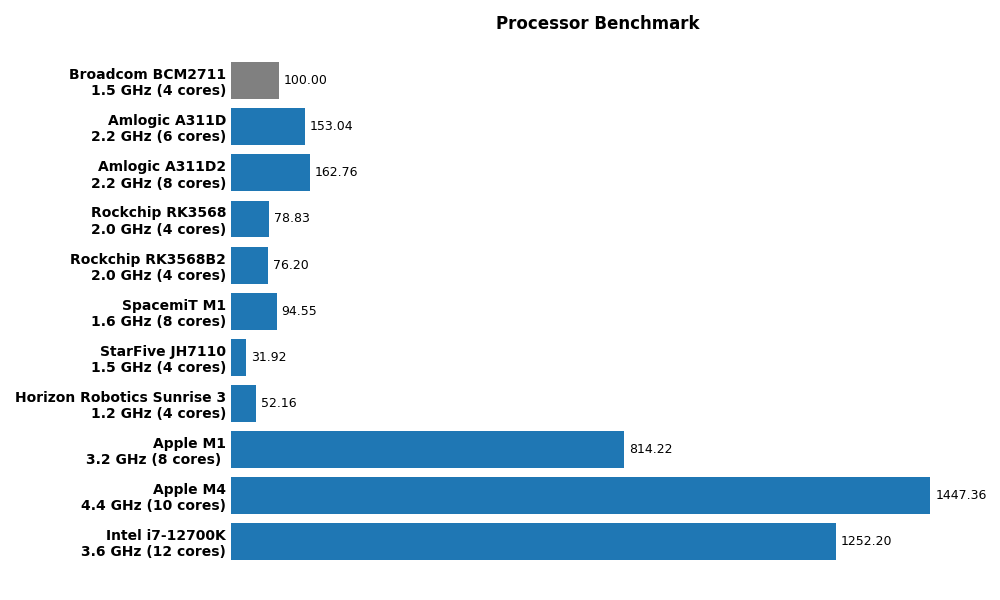
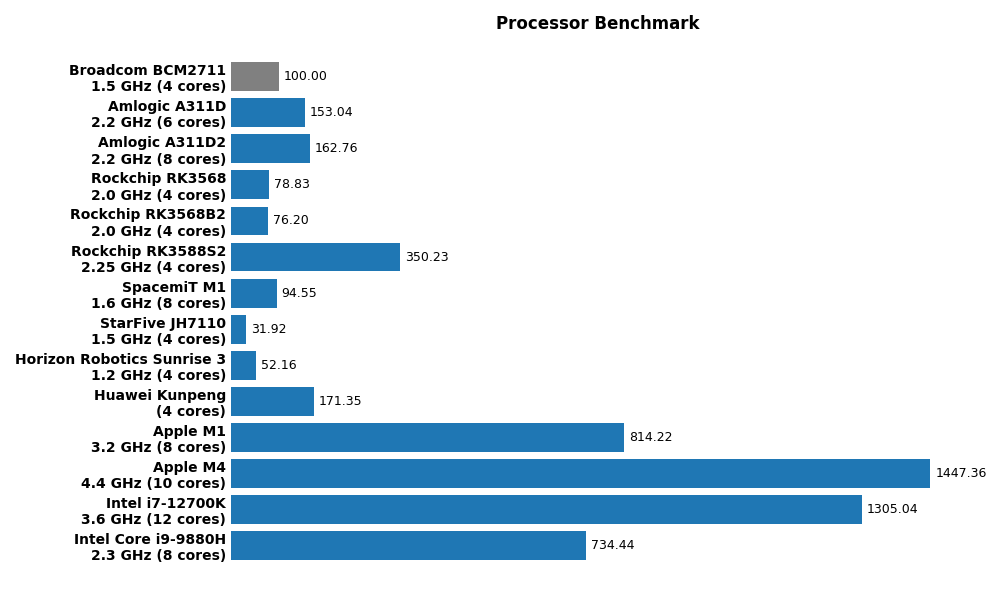
Add i9 results

Changed region(s): [[0.0, 0.09, 0.992, 0.96]]

diff --git a/README.md b/README.md
@@ -19,14 +19,15 @@ The geometric mean of all test case scores within a test suite represents the sc
 
 After the benchmark completes, detailed scores are reported as:
 
-| module     |   Amlogic A311D |   Amlogic A311D2 |   Apple M1 |   Apple M4 |   Huawei Kunpeng |   Intel Core i7-12700K |   Rockchip RK3568 |   Rockchip RK3568B2 |   Rockchip RK3588S2 |   SpacemiT M1 |   StarFive JH7110 |   Horizon Robotics Sunrise 3 |
-|:-----------|----------------:|-----------------:|-----------:|-----------:|-----------------:|-----------------------:|------------------:|--------------------:|--------------------:|--------------:|------------------:|-----------------------------:|
-| calib3d    |          168.5  |           167.83 |     805.11 |    1276.45 |           180.74 |                1047.36 |             92.17 |               89.21 |              379.78 |         86.56 |             35.38 |                        57.12 |
-| core       |          157.2  |           157.9  |     964.48 |    1573.05 |           178.97 |                1129.9  |             81.14 |               77.41 |              368.45 |        107.72 |             26.96 |                        57.54 |
-| features2d |          148.54 |           187.02 |     823.6  |    1753.81 |           141.08 |                1659.51 |             72.93 |               71.62 |              328.12 |        103.65 |             30.52 |                        49.69 |
-| imgproc    |          151.89 |           160.65 |     865.98 |    1514.13 |           178.01 |                1318.76 |             82.88 |               79.7  |              337.92 |        119.81 |             33.73 |                        52.4  |
-| objdetect  |          140.49 |           143.46 |     646.15 |    1191.21 |           181.85 |                1188.76 |             67.34 |               65.16 |              339.64 |         65.25 |             33.72 |                        45.13 |
-| **Score**  |      **153.04** |       **162.76** | **814.22** |**1447.36** |       **171.35** |             **1252.2** |         **78.83** |            **76.2** |          **350.23** |     **94.55** |         **31.92** |                    **52.16** |
+
+| module     |   Amlogic A311D |   Amlogic A311D2 |   Apple M1 |   Apple M4 |   Horizon Robotics Sunrise 3 |   Huawei Kunpeng |   Intel Core i7-12700K |   Intel Core i9-9880H |   Rockchip RK3568 |   Rockchip RK3568B2 |   Rockchip RK3588S2 |   SpacemiT M1 |   StarFive JH7110 |
+|:-----------|----------------:|-----------------:|-----------:|-----------:|-----------------------------:|-----------------:|-----------------------:|----------------------:|------------------:|--------------------:|--------------------:|--------------:|------------------:|
+| calib3d    |          168.5  |           167.83 |     805.11 |    1276.45 |                        57.12 |           180.74 |                1060.27 |                670.97 |             92.17 |               89.21 |              379.78 |         86.56 |             35.38 |
+| core       |          157.2  |           157.9  |     964.48 |    1573.05 |                        57.54 |           178.97 |                1227.25 |                709.42 |             81.14 |               77.41 |              368.45 |        107.72 |             26.96 |
+| features2d |          148.54 |           187.02 |     823.6  |    1753.81 |                        49.69 |           141.08 |                1686.13 |                852.97 |             72.93 |               71.62 |              328.12 |        103.65 |             30.52 |
+| imgproc    |          151.89 |           160.65 |     865.98 |    1514.13 |                        52.4  |           178.01 |                1451.1  |                799.71 |             82.88 |               79.7  |              337.92 |        119.81 |             33.73 |
+| objdetect  |          140.49 |           143.46 |     646.15 |    1191.21 |                        45.13 |           181.85 |                1189    |                658.11 |             67.34 |               65.16 |              339.64 |         65.25 |             33.72 |
+| **Score**  |      **153.04** |       **162.76** | **814.22** |**1447.36** |                    **52.16** |       **171.35** |            **1305.04** |            **734.44** |         **78.83** |            **76.2** |          **350.23** |     **94.55** |         **31.92** |
 
 *The baseline CPU is Broadcom BCM2711.*
 
@@ -36,14 +37,15 @@ CPU specs:
 - **Amlogic A311D2**: quad-core ARM Cortex-A73 (2.2 GHz) and quad-core ARM Cortex-A53 (2.0 GHz). Corresponding SBC used is Khadas VIM4.
 - **Apple M1**: 4 performance cores (3.2 GHz) and 4 efficiency cores.
 - **Apple M4**: 4 performance cores (4.4 GHz) and 6 efficiency cores.
+- **Horizon Robotics Sunrise 3**: quad-core ARM Cortex-A53 (1.2 GHz). Corresponding SBC used is Horizon Robotics X3_PI_V1.2.
 - **Huawei KunPeng**: quad-core 64-bit Kunpeng CPU. Corresponding SBC used is OrangePi Kunpeng Pro V1.
-- **Intel Core i7-12700K**: 8 Performance cores (3.60 GHz, turbo up to 4.90 GHz), 4 Efficient cores (2.70 GHz, turbo up to 3.80 GHz).
+- **Intel Core i7-12700K**: 8 Performance cores (3.60 GHz, turbo boost up to 4.90 GHz), 4 Efficient cores (2.70 GHz, turbo boost up to 3.80 GHz).
+- **Intel Core i9-9880H**: 8 cores (2.3 GHz, turbo boost up to 4.8 GHz).
 - **Rockchip RK3568**: quad-core ARM Cortex-A55 (up to 2.0 GHz). Corresponding SBC used is Firefly ROC-RK3568-PC.
 - **Rockchip RK3568B2**: quad-core ARM Cortex-A55 (up to 2.0 GHz). Corresponding SBC used is ATK-DLRK3568.
 - **Rockchip RK3588S2**: quad-core ARM Cortex-A76 (2.25 GHz) and quad-core ARM Cortex-A55 (1.8 GHz). Corresponding SBC used is Khadas Edge2 ARM PC.
 - **SpacemiT M1**: octa-core 64-bit RISC-V AI CPU (clocked at 1.6 GHz). Corresponding SBC used is MUSE Pi V30.
 - **StarFive JH7110**: quad-core 64-bit RISC-V CPU (1.5 GHz). Corresponding SBC used is StarFive VisionFive 2.
-- **Horizon Robotics Sunrise 3**: quad-core ARM Cortex-A53 (1.2 GHz). Corresponding SBC used is Horizon Robotics X3_PI_V1.2.
 
 ## How to run the benchmark
 
